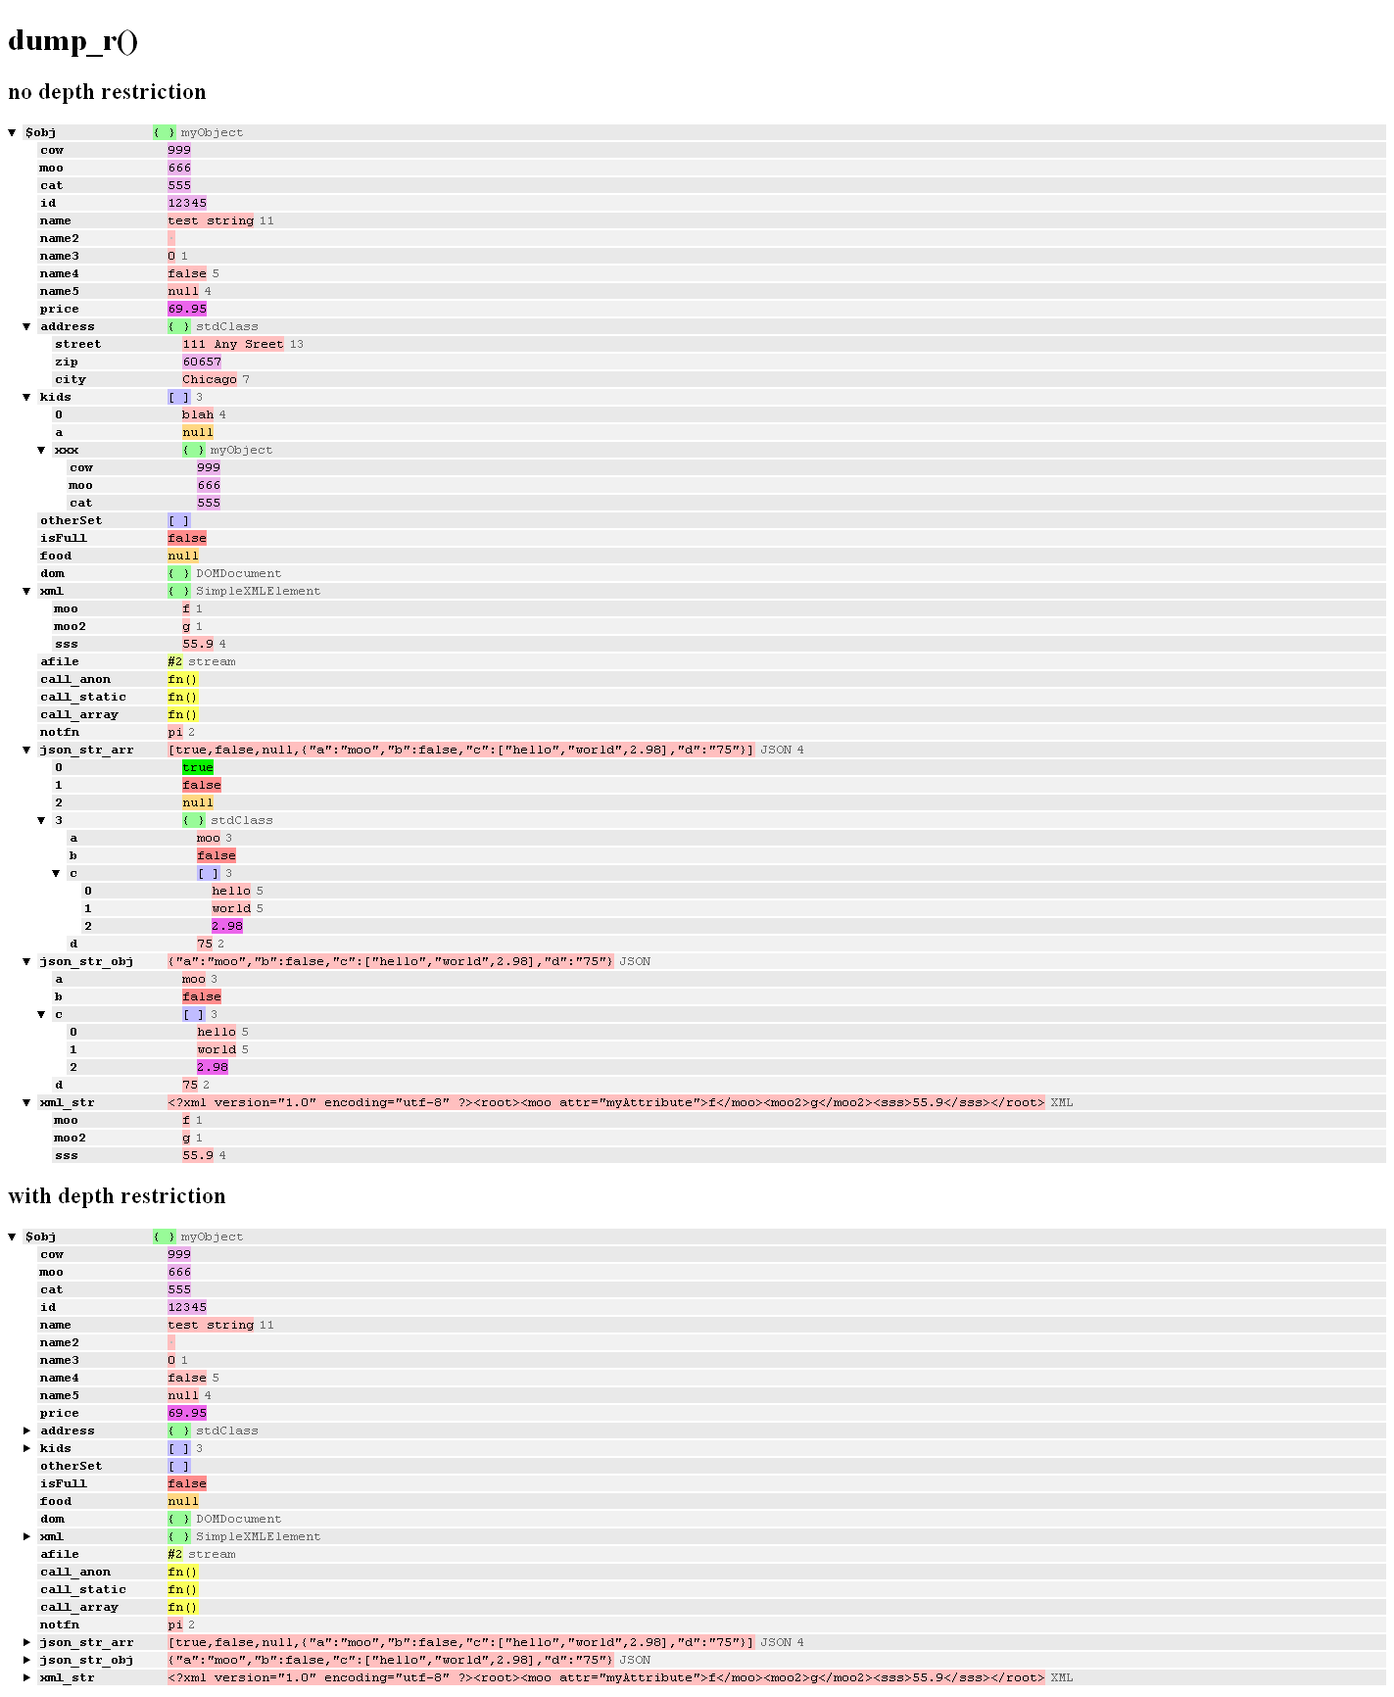
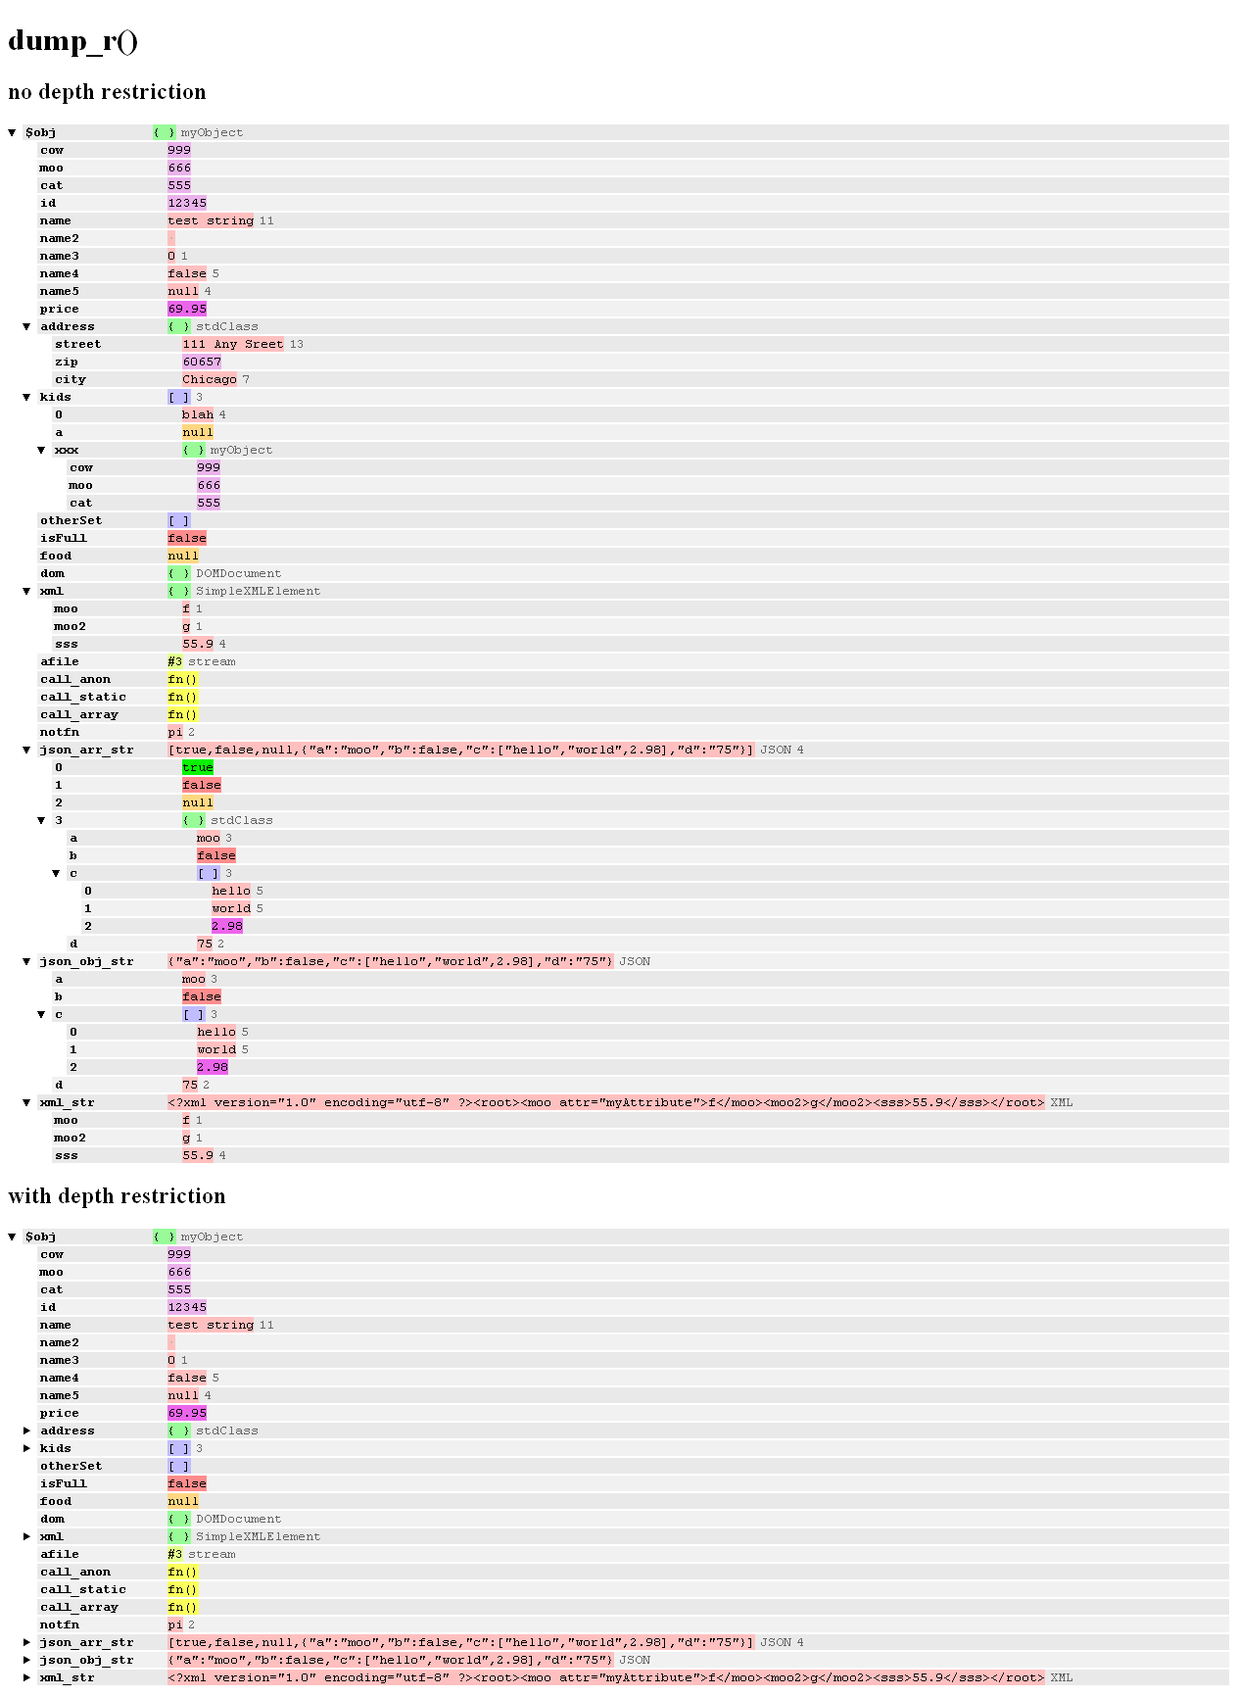
clearer sample var names, output example .htm

diff --git a/example.htm b/example.htm
@@ -1,0 +1,17 @@
+
+<!DOCTYPE html>
+<html lang="en-US">
+<head>
+	<meta charset="UTF-8">
+	<title>dump_r()</title>
+
+	<link rel="stylesheet" href="dump_r.css" media="all">
+	<script src="http://code.jquery.com/jquery-1.7.1.min.js"></script>
+	<script src="dump_r.js"></script>
+</head>
+<body>
+	<h1>dump_r()</h1>
+	<h2>no depth restriction</h2>
+	<pre class="dump_r"><ul><li class="object myObject expanded"><div class="excol"></div><div class="lbl"><div class="key">$obj</div><div class="val">{ }</div><div class="typ">(object)</div><div class="sub">myObject</div></div><ul><li class="integer numeric"><div class="lbl"><div class="key">cow</div><div class="val">999</div><div class="typ">(integer)</div></div></li><li class="integer numeric"><div class="lbl"><div class="key">moo</div><div class="val">666</div><div class="typ">(integer)</div></div></li><li class="integer numeric"><div class="lbl"><div class="key">cat</div><div class="val">555</div><div class="typ">(integer)</div></div></li><li class="integer numeric"><div class="lbl"><div class="key">id</div><div class="val">12345</div><div class="typ">(integer)</div></div></li><li class="string"><div class="lbl"><div class="key">name</div><div class="val">test string</div><div class="typ">(string)</div><div class="len">11</div></div></li><li class="string empty"><div class="lbl"><div class="key">name2</div><div class="val"></div><div class="typ">(string)</div><div class="len">0</div></div></li><li class="string numeric empty"><div class="lbl"><div class="key">name3</div><div class="val">0</div><div class="typ">(string)</div><div class="len">1</div></div></li><li class="string"><div class="lbl"><div class="key">name4</div><div class="val">false</div><div class="typ">(string)</div><div class="len">5</div></div></li><li class="string"><div class="lbl"><div class="key">name5</div><div class="val">null</div><div class="typ">(string)</div><div class="len">4</div></div></li><li class="float numeric"><div class="lbl"><div class="key">price</div><div class="val">69.95</div><div class="typ">(float)</div></div></li><li class="object stdClass expanded"><div class="excol"></div><div class="lbl"><div class="key">address</div><div class="val">{ }</div><div class="typ">(object)</div><div class="sub">stdClass</div></div><ul><li class="string"><div class="lbl"><div class="key">street</div><div class="val">111 Any Sreet</div><div class="typ">(string)</div><div class="len">13</div></div></li><li class="integer numeric"><div class="lbl"><div class="key">zip</div><div class="val">60657</div><div class="typ">(integer)</div></div></li><li class="string"><div class="lbl"><div class="key">city</div><div class="val">Chicago</div><div class="typ">(string)</div><div class="len">7</div></div></li></ul></li><li class="array expanded"><div class="excol"></div><div class="lbl"><div class="key">kids</div><div class="val">[ ]</div><div class="typ">(array)</div><div class="len">3</div></div><ul><li class="string"><div class="lbl"><div class="key">0</div><div class="val">blah</div><div class="typ">(string)</div><div class="len">4</div></div></li><li class="null empty"><div class="lbl"><div class="key">a</div><div class="val">null</div><div class="typ">(null)</div></div></li><li class="object myObject expanded"><div class="excol"></div><div class="lbl"><div class="key">xxx</div><div class="val">{ }</div><div class="typ">(object)</div><div class="sub">myObject</div></div><ul><li class="integer numeric"><div class="lbl"><div class="key">cow</div><div class="val">999</div><div class="typ">(integer)</div></div></li><li class="integer numeric"><div class="lbl"><div class="key">moo</div><div class="val">666</div><div class="typ">(integer)</div></div></li><li class="integer numeric"><div class="lbl"><div class="key">cat</div><div class="val">555</div><div class="typ">(integer)</div></div></li></ul></li></ul></li><li class="array empty"><div class="lbl"><div class="key">otherSet</div><div class="val">[ ]</div><div class="typ">(array)</div><div class="len">0</div></div></li><li class="boolean empty"><div class="lbl"><div class="key">isFull</div><div class="val">false</div><div class="typ">(boolean)</div></div></li><li class="null empty"><div class="lbl"><div class="key">food</div><div class="val">null</div><div class="typ">(null)</div></div></li><li class="object DOMDocument"><div class="lbl"><div class="key">dom</div><div class="val">{ }</div><div class="typ">(object)</div><div class="sub">DOMDocument</div></div></li><li class="object SimpleXMLElement expanded"><div class="excol"></div><div class="lbl"><div class="key">xml</div><div class="val">{ }</div><div class="typ">(object)</div><div class="sub">SimpleXMLElement</div></div><ul><li class="string"><div class="lbl"><div class="key">moo</div><div class="val">f</div><div class="typ">(string)</div><div class="len">1</div></div></li><li class="string"><div class="lbl"><div class="key">moo2</div><div class="val">g</div><div class="typ">(string)</div><div class="len">1</div></div></li><li class="string numeric"><div class="lbl"><div class="key">sss</div><div class="val">55.9</div><div class="typ">(string)</div><div class="len">4</div></div></li></ul></li><li class="resource stream"><div class="lbl"><div class="key">afile</div><div class="val">#3</div><div class="typ">(resource)</div><div class="sub">stream</div></div></li><li class="function"><div class="lbl"><div class="key">call_anon</div><div class="val">fn()</div><div class="typ">(function)</div></div></li><li class="function"><div class="lbl"><div class="key">call_static</div><div class="val">fn()</div><div class="typ">(function)</div></div></li><li class="function"><div class="lbl"><div class="key">call_array</div><div class="val">fn()</div><div class="typ">(function)</div></div></li><li class="string"><div class="lbl"><div class="key">notfn</div><div class="val">pi</div><div class="typ">(string)</div><div class="len">2</div></div></li><li class="string JSON expanded"><div class="excol"></div><div class="lbl"><div class="key">json_arr_str</div><div class="val">[true,false,null,{&quot;a&quot;:&quot;moo&quot;,&quot;b&quot;:false,&quot;c&quot;:[&quot;hello&quot;,&quot;world&quot;,2.98],&quot;d&quot;:&quot;75&quot;}]</div><div class="typ">(string)</div><div class="sub">JSON</div><div class="len">4</div></div><ul><li class="boolean"><div class="lbl"><div class="key">0</div><div class="val">true</div><div class="typ">(boolean)</div></div></li><li class="boolean empty"><div class="lbl"><div class="key">1</div><div class="val">false</div><div class="typ">(boolean)</div></div></li><li class="null empty"><div class="lbl"><div class="key">2</div><div class="val">null</div><div class="typ">(null)</div></div></li><li class="object stdClass expanded"><div class="excol"></div><div class="lbl"><div class="key">3</div><div class="val">{ }</div><div class="typ">(object)</div><div class="sub">stdClass</div></div><ul><li class="string"><div class="lbl"><div class="key">a</div><div class="val">moo</div><div class="typ">(string)</div><div class="len">3</div></div></li><li class="boolean empty"><div class="lbl"><div class="key">b</div><div class="val">false</div><div class="typ">(boolean)</div></div></li><li class="array expanded"><div class="excol"></div><div class="lbl"><div class="key">c</div><div class="val">[ ]</div><div class="typ">(array)</div><div class="len">3</div></div><ul><li class="string"><div class="lbl"><div class="key">0</div><div class="val">hello</div><div class="typ">(string)</div><div class="len">5</div></div></li><li class="string"><div class="lbl"><div class="key">1</div><div class="val">world</div><div class="typ">(string)</div><div class="len">5</div></div></li><li class="float numeric"><div class="lbl"><div class="key">2</div><div class="val">2.98</div><div class="typ">(float)</div></div></li></ul></li><li class="string numeric"><div class="lbl"><div class="key">d</div><div class="val">75</div><div class="typ">(string)</div><div class="len">2</div></div></li></ul></li></ul></li><li class="string JSON expanded"><div class="excol"></div><div class="lbl"><div class="key">json_obj_str</div><div class="val">{&quot;a&quot;:&quot;moo&quot;,&quot;b&quot;:false,&quot;c&quot;:[&quot;hello&quot;,&quot;world&quot;,2.98],&quot;d&quot;:&quot;75&quot;}</div><div class="typ">(string)</div><div class="sub">JSON</div></div><ul><li class="string"><div class="lbl"><div class="key">a</div><div class="val">moo</div><div class="typ">(string)</div><div class="len">3</div></div></li><li class="boolean empty"><div class="lbl"><div class="key">b</div><div class="val">false</div><div class="typ">(boolean)</div></div></li><li class="array expanded"><div class="excol"></div><div class="lbl"><div class="key">c</div><div class="val">[ ]</div><div class="typ">(array)</div><div class="len">3</div></div><ul><li class="string"><div class="lbl"><div class="key">0</div><div class="val">hello</div><div class="typ">(string)</div><div class="len">5</div></div></li><li class="string"><div class="lbl"><div class="key">1</div><div class="val">world</div><div class="typ">(string)</div><div class="len">5</div></div></li><li class="float numeric"><div class="lbl"><div class="key">2</div><div class="val">2.98</div><div class="typ">(float)</div></div></li></ul></li><li class="string numeric"><div class="lbl"><div class="key">d</div><div class="val">75</div><div class="typ">(string)</div><div class="len">2</div></div></li></ul></li><li class="string XML expanded"><div class="excol"></div><div class="lbl"><div class="key">xml_str</div><div class="val">&lt;?xml version=&quot;1.0&quot; encoding=&quot;utf-8&quot; ?&gt;&lt;root&gt;&lt;moo attr=&quot;myAttribute&quot;&gt;f&lt;/moo&gt;&lt;moo2&gt;g&lt;/moo2&gt;&lt;sss&gt;55.9&lt;/sss&gt;&lt;/root&gt;</div><div class="typ">(string)</div><div class="sub">XML</div></div><ul><li class="string"><div class="lbl"><div class="key">moo</div><div class="val">f</div><div class="typ">(string)</div><div class="len">1</div></div></li><li class="string"><div class="lbl"><div class="key">moo2</div><div class="val">g</div><div class="typ">(string)</div><div class="len">1</div></div></li><li class="string numeric"><div class="lbl"><div class="key">sss</div><div class="val">55.9</div><div class="typ">(string)</div><div class="len">4</div></div></li></ul></li></ul></li></ul></pre>	<h2>with depth restriction</h2>
+	<pre class="dump_r"><ul><li class="object myObject expanded"><div class="excol"></div><div class="lbl"><div class="key">$obj</div><div class="val">{ }</div><div class="typ">(object)</div><div class="sub">myObject</div></div><ul><li class="integer numeric"><div class="lbl"><div class="key">cow</div><div class="val">999</div><div class="typ">(integer)</div></div></li><li class="integer numeric"><div class="lbl"><div class="key">moo</div><div class="val">666</div><div class="typ">(integer)</div></div></li><li class="integer numeric"><div class="lbl"><div class="key">cat</div><div class="val">555</div><div class="typ">(integer)</div></div></li><li class="integer numeric"><div class="lbl"><div class="key">id</div><div class="val">12345</div><div class="typ">(integer)</div></div></li><li class="string"><div class="lbl"><div class="key">name</div><div class="val">test string</div><div class="typ">(string)</div><div class="len">11</div></div></li><li class="string empty"><div class="lbl"><div class="key">name2</div><div class="val"></div><div class="typ">(string)</div><div class="len">0</div></div></li><li class="string numeric empty"><div class="lbl"><div class="key">name3</div><div class="val">0</div><div class="typ">(string)</div><div class="len">1</div></div></li><li class="string"><div class="lbl"><div class="key">name4</div><div class="val">false</div><div class="typ">(string)</div><div class="len">5</div></div></li><li class="string"><div class="lbl"><div class="key">name5</div><div class="val">null</div><div class="typ">(string)</div><div class="len">4</div></div></li><li class="float numeric"><div class="lbl"><div class="key">price</div><div class="val">69.95</div><div class="typ">(float)</div></div></li><li class="object stdClass collapsed"><div class="excol"></div><div class="lbl"><div class="key">address</div><div class="val">{ }</div><div class="typ">(object)</div><div class="sub">stdClass</div></div><ul><li class="string"><div class="lbl"><div class="key">street</div><div class="val">111 Any Sreet</div><div class="typ">(string)</div><div class="len">13</div></div></li><li class="integer numeric"><div class="lbl"><div class="key">zip</div><div class="val">60657</div><div class="typ">(integer)</div></div></li><li class="string"><div class="lbl"><div class="key">city</div><div class="val">Chicago</div><div class="typ">(string)</div><div class="len">7</div></div></li></ul></li><li class="array collapsed"><div class="excol"></div><div class="lbl"><div class="key">kids</div><div class="val">[ ]</div><div class="typ">(array)</div><div class="len">3</div></div><ul><li class="string"><div class="lbl"><div class="key">0</div><div class="val">blah</div><div class="typ">(string)</div><div class="len">4</div></div></li><li class="null empty"><div class="lbl"><div class="key">a</div><div class="val">null</div><div class="typ">(null)</div></div></li><li class="object myObject collapsed"><div class="excol"></div><div class="lbl"><div class="key">xxx</div><div class="val">{ }</div><div class="typ">(object)</div><div class="sub">myObject</div></div><ul><li class="integer numeric"><div class="lbl"><div class="key">cow</div><div class="val">999</div><div class="typ">(integer)</div></div></li><li class="integer numeric"><div class="lbl"><div class="key">moo</div><div class="val">666</div><div class="typ">(integer)</div></div></li><li class="integer numeric"><div class="lbl"><div class="key">cat</div><div class="val">555</div><div class="typ">(integer)</div></div></li></ul></li></ul></li><li class="array empty"><div class="lbl"><div class="key">otherSet</div><div class="val">[ ]</div><div class="typ">(array)</div><div class="len">0</div></div></li><li class="boolean empty"><div class="lbl"><div class="key">isFull</div><div class="val">false</div><div class="typ">(boolean)</div></div></li><li class="null empty"><div class="lbl"><div class="key">food</div><div class="val">null</div><div class="typ">(null)</div></div></li><li class="object DOMDocument"><div class="lbl"><div class="key">dom</div><div class="val">{ }</div><div class="typ">(object)</div><div class="sub">DOMDocument</div></div></li><li class="object SimpleXMLElement collapsed"><div class="excol"></div><div class="lbl"><div class="key">xml</div><div class="val">{ }</div><div class="typ">(object)</div><div class="sub">SimpleXMLElement</div></div><ul><li class="string"><div class="lbl"><div class="key">moo</div><div class="val">f</div><div class="typ">(string)</div><div class="len">1</div></div></li><li class="string"><div class="lbl"><div class="key">moo2</div><div class="val">g</div><div class="typ">(string)</div><div class="len">1</div></div></li><li class="string numeric"><div class="lbl"><div class="key">sss</div><div class="val">55.9</div><div class="typ">(string)</div><div class="len">4</div></div></li></ul></li><li class="resource stream"><div class="lbl"><div class="key">afile</div><div class="val">#3</div><div class="typ">(resource)</div><div class="sub">stream</div></div></li><li class="function"><div class="lbl"><div class="key">call_anon</div><div class="val">fn()</div><div class="typ">(function)</div></div></li><li class="function"><div class="lbl"><div class="key">call_static</div><div class="val">fn()</div><div class="typ">(function)</div></div></li><li class="function"><div class="lbl"><div class="key">call_array</div><div class="val">fn()</div><div class="typ">(function)</div></div></li><li class="string"><div class="lbl"><div class="key">notfn</div><div class="val">pi</div><div class="typ">(string)</div><div class="len">2</div></div></li><li class="string JSON collapsed"><div class="excol"></div><div class="lbl"><div class="key">json_arr_str</div><div class="val">[true,false,null,{&quot;a&quot;:&quot;moo&quot;,&quot;b&quot;:false,&quot;c&quot;:[&quot;hello&quot;,&quot;world&quot;,2.98],&quot;d&quot;:&quot;75&quot;}]</div><div class="typ">(string)</div><div class="sub">JSON</div><div class="len">4</div></div><ul><li class="boolean"><div class="lbl"><div class="key">0</div><div class="val">true</div><div class="typ">(boolean)</div></div></li><li class="boolean empty"><div class="lbl"><div class="key">1</div><div class="val">false</div><div class="typ">(boolean)</div></div></li><li class="null empty"><div class="lbl"><div class="key">2</div><div class="val">null</div><div class="typ">(null)</div></div></li><li class="object stdClass collapsed"><div class="excol"></div><div class="lbl"><div class="key">3</div><div class="val">{ }</div><div class="typ">(object)</div><div class="sub">stdClass</div></div><ul><li class="string"><div class="lbl"><div class="key">a</div><div class="val">moo</div><div class="typ">(string)</div><div class="len">3</div></div></li><li class="boolean empty"><div class="lbl"><div class="key">b</div><div class="val">false</div><div class="typ">(boolean)</div></div></li><li class="array collapsed"><div class="excol"></div><div class="lbl"><div class="key">c</div><div class="val">[ ]</div><div class="typ">(array)</div><div class="len">3</div></div><ul><li class="string"><div class="lbl"><div class="key">0</div><div class="val">hello</div><div class="typ">(string)</div><div class="len">5</div></div></li><li class="string"><div class="lbl"><div class="key">1</div><div class="val">world</div><div class="typ">(string)</div><div class="len">5</div></div></li><li class="float numeric"><div class="lbl"><div class="key">2</div><div class="val">2.98</div><div class="typ">(float)</div></div></li></ul></li><li class="string numeric"><div class="lbl"><div class="key">d</div><div class="val">75</div><div class="typ">(string)</div><div class="len">2</div></div></li></ul></li></ul></li><li class="string JSON collapsed"><div class="excol"></div><div class="lbl"><div class="key">json_obj_str</div><div class="val">{&quot;a&quot;:&quot;moo&quot;,&quot;b&quot;:false,&quot;c&quot;:[&quot;hello&quot;,&quot;world&quot;,2.98],&quot;d&quot;:&quot;75&quot;}</div><div class="typ">(string)</div><div class="sub">JSON</div></div><ul><li class="string"><div class="lbl"><div class="key">a</div><div class="val">moo</div><div class="typ">(string)</div><div class="len">3</div></div></li><li class="boolean empty"><div class="lbl"><div class="key">b</div><div class="val">false</div><div class="typ">(boolean)</div></div></li><li class="array collapsed"><div class="excol"></div><div class="lbl"><div class="key">c</div><div class="val">[ ]</div><div class="typ">(array)</div><div class="len">3</div></div><ul><li class="string"><div class="lbl"><div class="key">0</div><div class="val">hello</div><div class="typ">(string)</div><div class="len">5</div></div></li><li class="string"><div class="lbl"><div class="key">1</div><div class="val">world</div><div class="typ">(string)</div><div class="len">5</div></div></li><li class="float numeric"><div class="lbl"><div class="key">2</div><div class="val">2.98</div><div class="typ">(float)</div></div></li></ul></li><li class="string numeric"><div class="lbl"><div class="key">d</div><div class="val">75</div><div class="typ">(string)</div><div class="len">2</div></div></li></ul></li><li class="string XML collapsed"><div class="excol"></div><div class="lbl"><div class="key">xml_str</div><div class="val">&lt;?xml version=&quot;1.0&quot; encoding=&quot;utf-8&quot; ?&gt;&lt;root&gt;&lt;moo attr=&quot;myAttribute&quot;&gt;f&lt;/moo&gt;&lt;moo2&gt;g&lt;/moo2&gt;&lt;sss&gt;55.9&lt;/sss&gt;&lt;/root&gt;</div><div class="typ">(string)</div><div class="sub">XML</div></div><ul><li class="string"><div class="lbl"><div class="key">moo</div><div class="val">f</div><div class="typ">(string)</div><div class="len">1</div></div></li><li class="string"><div class="lbl"><div class="key">moo2</div><div class="val">g</div><div class="typ">(string)</div><div class="len">1</div></div></li><li class="string numeric"><div class="lbl"><div class="key">sss</div><div class="val">55.9</div><div class="typ">(string)</div><div class="len">4</div></div></li></ul></li></ul></li></ul></pre></body>
+</html>

diff --git a/example.php b/example.php
@@ -48,8 +48,8 @@
 	$sub->c = array('hello', 'world', 2.98);
 	$sub->d = "75";
 
-	$obj->json_str_arr = json_encode(array(true,false,null,$sub));
-	$obj->json_str_obj = json_encode($sub);
+	$obj->json_arr_str = json_encode(array(true,false,null,$sub));
+	$obj->json_obj_str = json_encode($sub);
 	$obj->xml_str = "<?xml version=\"1.0\" encoding=\"utf-8\" ?><root><moo attr=\"myAttribute\">f</moo><moo2>g</moo2><sss>55.9</sss></root>";
 ?>
 
